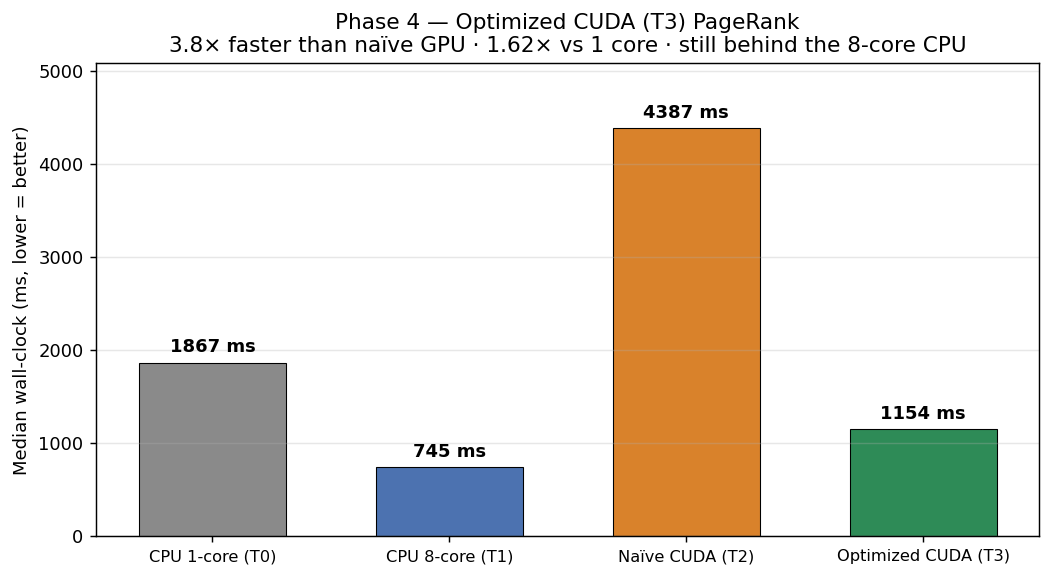
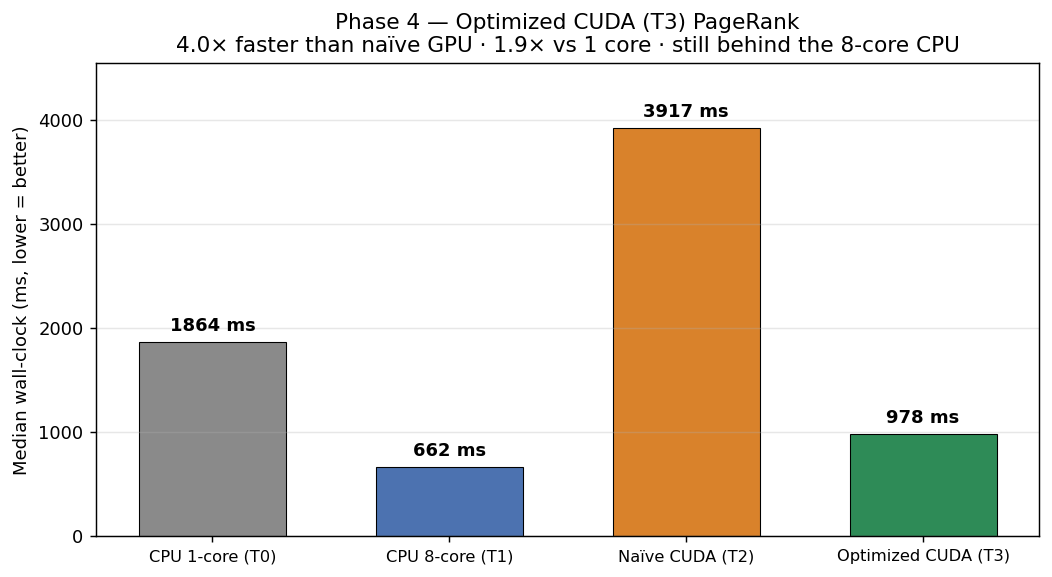
Phase 5: T4 degree-bucketed load-balanced PageRank (5.16x over naive, within 15% of 8-core CPU)

diff --git a/scripts/make_figures.py b/scripts/make_figures.py
@@ -16,7 +16,8 @@ import numpy as np
 RMAT = {
     "BFS":      {"T0": 153.109, "T1": 75.1992, "T2": 102.278, "T3": 138.559},
     "WCC":      {"T0": 218.655, "T1": 46.2037, "T2": 88.6794, "T3": 96.3744},
-    "PageRank": {"T0": 1866.93, "T1": 744.683, "T2": 4386.55, "T3": 1153.61},
+    # PageRank from one consistent run (adds the T4 degree-bucketed tier).
+    "PageRank": {"T0": 1863.78, "T1": 662.22, "T2": 3917.48, "T3": 978.406, "T4": 758.671},
 }
 # Grid 1024: 2^20 vertices, 4.2M edges, BFS depth 2046  (high diameter)
 GRID = {
@@ -24,9 +25,11 @@ GRID = {
     "WCC": {"T0": 19.5131, "T1": 9.3099,  "T2": 521.535, "T3": 397.896},
 }
 
-COL = {"T0": "#8a8a8a", "T1": "#4c72b0", "T2": "#d9822b", "T3": "#2e8b57"}
+COL = {"T0": "#8a8a8a", "T1": "#4c72b0", "T2": "#d9822b",
+       "T3": "#2e8b57", "T4": "#7b3fa0"}
 NAME = {"T0": "CPU 1-core (T0)", "T1": "CPU 8-core (T1)",
-        "T2": "Naïve CUDA (T2)", "T3": "Optimized CUDA (T3)"}
+        "T2": "Naïve CUDA (T2)", "T3": "Optimized CUDA (T3)",
+        "T4": "Load-balanced (T4)"}
 
 
 def dump_csv():
@@ -76,11 +79,33 @@ def fig_t3():
                 ha="center", va="bottom", fontsize=10, fontweight="bold")
     ax.set_ylabel("Median wall-clock (ms, lower = better)")
     ax.set_title("Phase 4 — Optimized CUDA (T3) PageRank\n"
-                 "3.8× faster than naïve GPU · 1.62× vs 1 core · still behind the 8-core CPU")
+                 "4.0× faster than naïve GPU · 1.9× vs 1 core · still behind the 8-core CPU")
     ax.set_ylim(0, max(times)*1.16); ax.grid(axis="y", alpha=0.3)
     plt.setp(ax.get_xticklabels(), fontsize=9)
     fig.tight_layout(); fig.savefig("docs/img/cuda_t3.png", dpi=130, bbox_inches="tight")
     print("wrote docs/img/cuda_t3.png")
+
+
+# ---- Figure 2b: PageRank full ladder T0..T4 (T4 = load balancing) -----------
+def fig_t4():
+    tiers = ["T0", "T1", "T2", "T3", "T4"]
+    times = [RMAT["PageRank"][t] for t in tiers]
+    fig, ax = plt.subplots(figsize=(9.2, 4.6))
+    bars = ax.bar([NAME[t] for t in tiers], times, color=[COL[t] for t in tiers],
+                  edgecolor="black", lw=0.6, width=0.64)
+    for b, t in zip(bars, times):
+        ax.text(b.get_x()+b.get_width()/2, t+70, f"{t:.0f} ms",
+                ha="center", va="bottom", fontsize=10, fontweight="bold")
+    # highlight the closing gap between T4 and the 8-core CPU
+    t1, t4 = RMAT["PageRank"]["T1"], RMAT["PageRank"]["T4"]
+    ax.axhline(t1, color="#4c72b0", ls="--", lw=1.1, alpha=0.7)
+    ax.set_ylabel("Median wall-clock (ms, lower = better)")
+    ax.set_title("Phase 5 — Degree-bucketed load balancing (T4) PageRank\n"
+                 "5.2× faster than naïve GPU · 2.46× vs 1 core · within 15% of the 8-core CPU")
+    ax.set_ylim(0, max(times)*1.16); ax.grid(axis="y", alpha=0.3)
+    plt.setp(ax.get_xticklabels(), fontsize=8.5)
+    fig.tight_layout(); fig.savefig("docs/img/cuda_t4.png", dpi=130, bbox_inches="tight")
+    print("wrote docs/img/cuda_t4.png")
 
 
 # ---- Figure 3: diameter crossover ------------------------------------------
@@ -121,7 +146,7 @@ def fig_crossover():
 
 
 if __name__ == "__main__":
-    dump_csv(); fig_t2(); fig_t3(); fig_crossover()
+    dump_csv(); fig_t2(); fig_t3(); fig_t4(); fig_crossover()
     # handy ratios
     for a in ("BFS", "WCC", "PageRank"):
         r = RMAT[a]

diff --git a/apps/run_bench.cpp b/apps/run_bench.cpp
@@ -100,16 +100,17 @@ int main(int argc, char** argv) {
     const bool omp_tier = (a.tier == "openmp");
     const bool cuda_tier = (a.tier == "cuda");           // T2 naïve
     const bool cuda_opt_tier = (a.tier == "cuda_opt");   // T3 optimized
-    const bool any_cuda = cuda_tier || cuda_opt_tier;
+    const bool cuda_lb_tier = (a.tier == "cuda_lb");     // T4 load-balanced
+    const bool any_cuda = cuda_tier || cuda_opt_tier || cuda_lb_tier;
     if (!seq_tier && !omp_tier && !any_cuda) {
         std::cerr << "unknown tier '" << a.tier
-                  << "'. Use seq, openmp, cuda, or cuda_opt.\n";
+                  << "'. Use seq, openmp, cuda, cuda_opt, or cuda_lb.\n";
         return 3;
     }
 #ifndef HAVE_CUDA
     if (any_cuda) {
         std::cerr << "this binary was built without CUDA; rebuild on a machine "
-                     "with the CUDA toolkit to use --tier cuda / cuda_opt.\n";
+                     "with the CUDA toolkit to use --tier cuda / cuda_opt / cuda_lb.\n";
         return 3;
     }
 #else
@@ -122,6 +123,12 @@ int main(int argc, char** argv) {
     // T3 (cuda_opt) implements bfs, pagerank, and wcc. Louvain has no GPU tier.
     if (cuda_opt_tier && a.algo == "louvain") {
         std::cerr << "louvain has no GPU tier; use --tier seq.\n";
+        return 3;
+    }
+    // T4 (cuda_lb) is demonstrated on PageRank (the degree-skewed gather).
+    if (cuda_lb_tier && a.algo != "pagerank") {
+        std::cerr << "--tier cuda_lb (T4 degree-bucketing) is implemented for "
+                     "pagerank; use --tier cuda_opt for bfs/wcc.\n";
         return 3;
     }
 
@@ -146,7 +153,8 @@ int main(int argc, char** argv) {
             else if (omp_tier) pr = omp::pagerank(g);
 #ifdef HAVE_CUDA
             else if (cuda_tier)     pr = cuda::pagerank(g);      // T2 naïve
-            else                    pr = cuda::pagerank_opt(g);  // T3 optimized
+            else if (cuda_opt_tier) pr = cuda::pagerank_opt(g);  // T3 optimized
+            else                    pr = cuda::pagerank_lb(g);   // T4 load-balanced
 #endif
         }, a.repeats);
         double sum = 0.0, mx = 0.0;

diff --git a/tests/test_correctness.cpp b/tests/test_correctness.cpp
@@ -176,13 +176,16 @@ int main() {
             auto ps  = seq::pagerank(big);
             auto p2  = cuda::pagerank(big);       // T2 naïve
             auto p3  = cuda::pagerank_opt(big);   // T3 optimized
-            double e2 = 0.0, e3 = 0.0;
+            auto p4  = cuda::pagerank_lb(big);    // T4 degree-bucketed
+            double e2 = 0.0, e3 = 0.0, e4 = 0.0;
             for (VertexId v = 0; v < big.num_vertices; ++v) {
                 e2 = std::max(e2, std::abs(ps[v] - p2[v]));
                 e3 = std::max(e3, std::abs(ps[v] - p3[v]));
+                e4 = std::max(e4, std::abs(ps[v] - p4[v]));
             }
             CHECK(e2 < 1e-9, "CUDA T2 PageRank matches sequential within 1e-9");
             CHECK(e3 < 1e-9, "CUDA T3 PageRank matches sequential within 1e-9");
+            CHECK(e4 < 1e-9, "CUDA T4 PageRank matches sequential within 1e-9");
         }
         // High-diameter grid: the real test of the many-level frontier /
         // active-set kernels (254 levels here vs ~4 on RMAT).

diff --git a/core/cuda/cuda_algorithms.hpp b/core/cuda/cuda_algorithms.hpp
@@ -43,6 +43,17 @@ std::vector<double> pagerank_opt(const CsrGraph& g,
                                  int    max_iters = 100,
                                  double tol       = 1e-9);
 
+// Tier T4 — degree-bucketed load balancing (established Gunrock/Merrill
+// technique, not a novel contribution). Vertices are split once by out-degree:
+// low-degree vertices keep one thread each, high-degree hubs get a whole warp
+// (32 lanes stride the neighbor list, coalesced, then a warp-shuffle reduction).
+// This attacks the power-law load imbalance that a single thread on a 10^5-degree
+// hub causes. Same result as the T0 oracle.
+std::vector<double> pagerank_lb(const CsrGraph& g,
+                                double damping   = 0.85,
+                                int    max_iters = 100,
+                                double tol       = 1e-9);
+
 std::vector<VertexId> wcc(const CsrGraph& g);
 
 // Tier T3 — optimized CUDA WCC: active-set label propagation. Only vertices

diff --git a/README.md b/README.md
@@ -13,7 +13,7 @@ This is an **empirical study**, not a claim of a new algorithm. Its value — li
   <a href="#references">References</a>
 </p>
 
-> **Status:** 🚧 Phases 1–4 complete — sequential (T0), OpenMP (T1), naïve CUDA (T2) and **optimized CUDA (T3)** for BFS / PageRank / WCC, plus a sequential Louvain (T0) and a binary→call-graph extractor. Every GPU result is validated against the T0 oracle (GPU correctness, including a 254-level high-diameter case, is a CI test), and every GPU number is reported against **both** a single CPU core and the full 8-core OpenMP tier. Headline findings, all honest: **(1)** the T3 optimizations are large and real *as techniques* — PageRank T3 is **3.8× faster than naïve GPU**, BFS-on-grid **2.4×**; **(2)** the best traversal strategy **depends on graph diameter** (the frontier/active-set optimization loses on shallow graphs, wins on high-diameter ones); **(3)** on *this* hardware — an entry-level 4 GB T600 vs a strong 8-core i7 — the **multi-core CPU wins on these mid-size graphs**, a candid result about entry GPUs, not a marketing number. Advanced load balancing (T4) and a 100M+-edge scale study are next on the [roadmap](#roadmap).
+> **Status:** 🚧 Phases 1–5 complete — sequential (T0), OpenMP (T1), naïve CUDA (T2), optimized CUDA (T3) for BFS / PageRank / WCC, and **degree-bucketed load balancing (T4)** for PageRank, plus a sequential Louvain (T0) and a binary→call-graph extractor. Every GPU result is validated against the T0 oracle (GPU correctness, including a 254-level high-diameter case, is a CI test), and every GPU number is reported against **both** a single CPU core and the full 8-core OpenMP tier. Headline findings, all honest: **(1)** the GPU optimizations are large and real *as techniques* — PageRank goes from a **0.48× naïve loss to 5.16× faster than naïve GPU** across T3 (parallel reduction) + T4 (degree-bucketing), each speedup attributable to one named technique; **(2)** the best traversal strategy **depends on graph diameter** (the frontier/active-set optimization loses on shallow graphs, wins 2.4× on high-diameter ones); **(3)** on *this* hardware — an entry-level 4 GB T600 vs a strong 8-core i7 — the **multi-core CPU still edges the GPU on these mid-size graphs** (T4 closes to within 15%), a candid result about entry GPUs, not a marketing number. A 100M+-edge scale study is next on the [roadmap](#roadmap).
 
 ---
 
@@ -39,7 +39,7 @@ Following the tiered-benchmark structure of [4], every algorithm is implemented 
 | Algorithm | T0 · Seq C++ | T1 · OpenMP | T2 · Naïve CUDA | T3 · Optimized CUDA | T4 · Advanced |
 |---|:--:|:--:|:--:|:--:|:--:|
 | **BFS** | ✅ | ✅ | ✅ | ✅ | ⬜ |
-| **PageRank** | ✅ | ✅ | ✅ | ✅ | ⬜ |
+| **PageRank** | ✅ | ✅ | ✅ | ✅ | ✅ |
 | **Connected Components (WCC)** | ✅ | ✅ | ✅ | ✅ | ⬜ |
 | **Community Detection (Louvain)** | ✅ | ⬜ | ⬜ | ⬜ | — |
 
@@ -141,23 +141,56 @@ the numerical result changes (it is diffed against the T0 oracle in CI):
 
 | PageRank (2²⁰ vertices, 33.5M edges) | Median time | vs 1 core (T0) | vs naïve GPU (T2) |
 |---|--:|:--:|:--:|
-| CPU 1-core (T0) | 1866.9 ms | 1.00× | — |
-| CPU 8-core (T1) | **744.7 ms** | 2.51× | — |
-| Naïve CUDA (T2) | 4386.6 ms | 0.43× | 1.00× |
-| **Optimized CUDA (T3)** | **1153.6 ms** | **1.62×** | **3.80×** |
+| CPU 1-core (T0) | 1863.8 ms | 1.00× | — |
+| CPU 8-core (T1) | **662.2 ms** | 2.81× | — |
+| Naïve CUDA (T2) | 3917.5 ms | 0.48× | 1.00× |
+| **Optimized CUDA (T3)** | **978.4 ms** | **1.90×** | **4.00×** |
 
-The optimized kernel is **3.8× faster than the naïve GPU version** — a full
+The optimized kernel is **4.0× faster than the naïve GPU version** — a full
 turnaround from the naïve tier's loss, achieved by attacking exactly the
 bottleneck the T2 measurement identified. That is the study's core claim in
 miniature: *the speedup is attributable to a specific, named technique* (parallel
-reduction), not to a rewrite. It also passes single-core CPU (1.62×). **The
-8-core CPU is still faster (744.7 ms)** — honest, and expected: the T600 is an
-entry-level 4 GB GPU and PageRank here is memory-bandwidth-bound, a fight a
-strong 8-core CPU with 24 MB of L3 wins at this graph size. The T3 *technique* is
-the transferable result; whether the T600 *hardware* wins is a separate question
-the roadmap's scale study (100M+ edges) is designed to answer.
+reduction), not to a rewrite. It also passes single-core CPU (1.90×). The 8-core
+CPU is still faster (662 ms), but the T3 gather is *still* one thread per vertex
+— which the next tier fixes.
 
 Run it yourself: `run_bench --algo pagerank --tier cuda_opt --rmat 20 --ef 16`.
+
+#### PageRank T4 — degree-bucketed load balancing (Phase 5)
+
+T3 fixed the reduction; the **gather** is still one thread per vertex. On a
+power-law graph (this one's max degree is **138,626** vs an average of 32) that
+means one thread walks a 138k-neighbor hub's list while its 31 warp-mates idle —
+textbook load imbalance and uncoalesced access. T4 applies the established
+**Gunrock/Merrill degree-bucketing** strategy (documented as standard technique,
+not a novel contribution): vertices are split once by out-degree and each bucket
+gets the right granularity —
+
+- **low-degree (≤ 32): one thread per vertex** — no wasted lanes;
+- **high-degree (> 32): one warp per vertex** — 32 lanes stride the neighbor
+  list with **coalesced** `col[]` reads and combine via `__shfl_down_sync`.
+
+![Load-balanced (T4) PageRank](docs/img/cuda_t4.png)
+
+| PageRank (2²⁰ vertices, 33.5M edges) | Median time | vs 1 core | vs naïve GPU (T2) | vs T3 |
+|---|--:|:--:|:--:|:--:|
+| CPU 1-core (T0) | 1863.8 ms | 1.00× | — | — |
+| CPU 8-core (T1) | **662.2 ms** | 2.81× | — | — |
+| Naïve CUDA (T2) | 3917.5 ms | 0.48× | 1.00× | — |
+| Optimized CUDA (T3) | 978.4 ms | 1.90× | 4.00× | 1.00× |
+| **Load-balanced (T4)** | **758.7 ms** | **2.46×** | **5.16×** | **1.29×** |
+
+Degree-bucketing takes PageRank from the naïve tier's **0.48× loss** to **5.16×
+faster than naïve GPU** and **2.46× faster than a CPU core** — and closes most of
+the remaining gap to the 8-core CPU (759 ms vs 662 ms, ~15%). The two GPU
+optimizations compound cleanly and each is attributable to one named technique:
+**T3 = parallel reduction** (fixes the write/reduce), **T4 = degree-bucketed
+scheduling** (fixes the read/gather). A further split — a *block* per extreme hub
+— is the natural T4.1 and is left as documented future work. On this entry-level
+4 GB T600 the strong 8-core CPU still edges it at this scale; the roadmap's
+100M+-edge study is where the GPU's bandwidth is expected to pull ahead.
+
+Run it yourself: `run_bench --algo pagerank --tier cuda_lb --rmat 20 --ef 16`.
 
 #### Traversal (BFS / WCC): the optimization that depends on graph shape
 
@@ -313,7 +346,7 @@ Every number is regenerated by `scripts/run_benchmarks.sh`; raw CSVs live in `re
 - [x] **Phase 2 — Parallel CPU (T1).** ✅ OpenMP BFS/PageRank/WCC, validated against T0; thread-scaling study (chart above); PowerShell benchmark runner.
 - [x] **Phase 3 — GPU (T2).** ✅ Naïve CUDA for BFS/PageRank/WCC, validated against T0 (GPU correctness now a CI test); naïve-vs-CPU study (chart above).
 - [x] **Phase 4 — Optimization (T3).** ✅ PageRank: block-level reductions + precomputed inverse degree (0.43×→1.62× vs CPU, 3.8× vs naïve). ✅ BFS (frontier worklist) + WCC (active-set): a diameter-dependent crossover study — T3 loses on shallow graphs, wins 2.4× on high-diameter ones; GPU shown to be launch-bound in the high-diameter regime.
-- [ ] **Phase 5 — Advanced load balancing (T4).** Degree-bucketed scheduling; the GPU-utilization-recovery study on skewed security graphs.
+- [~] **Phase 5 — Advanced load balancing (T4).** ✅ PageRank: two-bucket degree scheduling (thread-per-vertex + warp-per-vertex), 5.16× over naïve GPU, closes to within 15% of the 8-core CPU. ⬜ Three-level (block-per-hub) split and BFS/WCC load balancing next.
 - [ ] **Phase 6 — Scale & writeup.** Louvain; scale study to 100M+ edges; cross-dataset generalization on IDS data; `docs/` paper draft → arXiv preprint.
 
 Detailed weekly milestones in [`docs/ROADMAP.md`](docs/ROADMAP.md).
